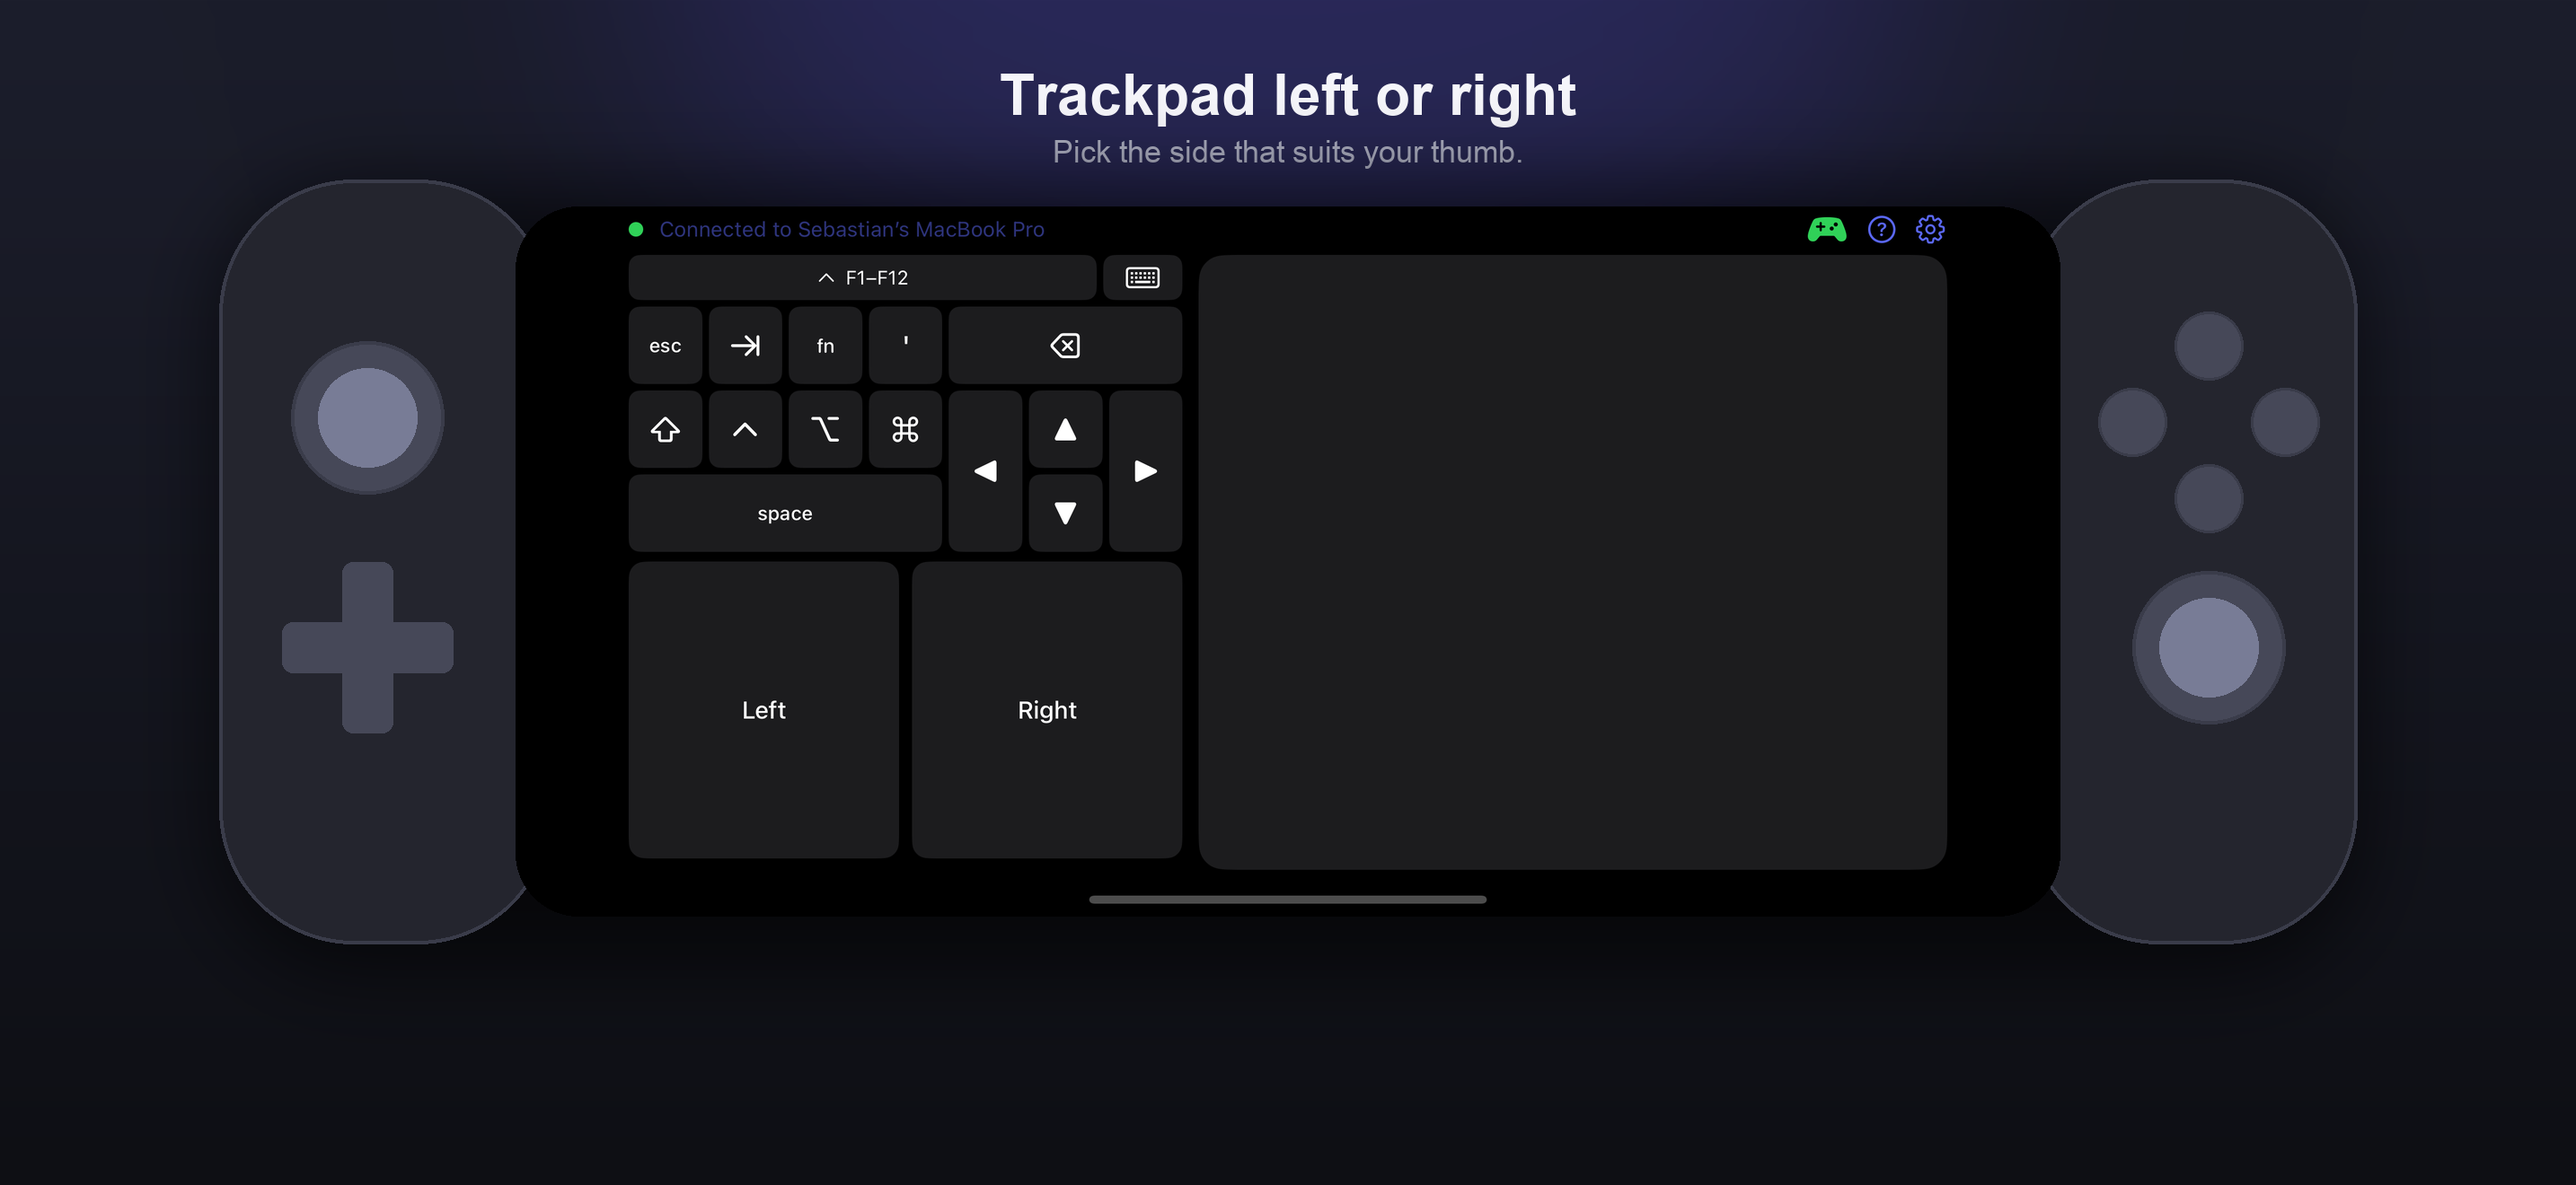
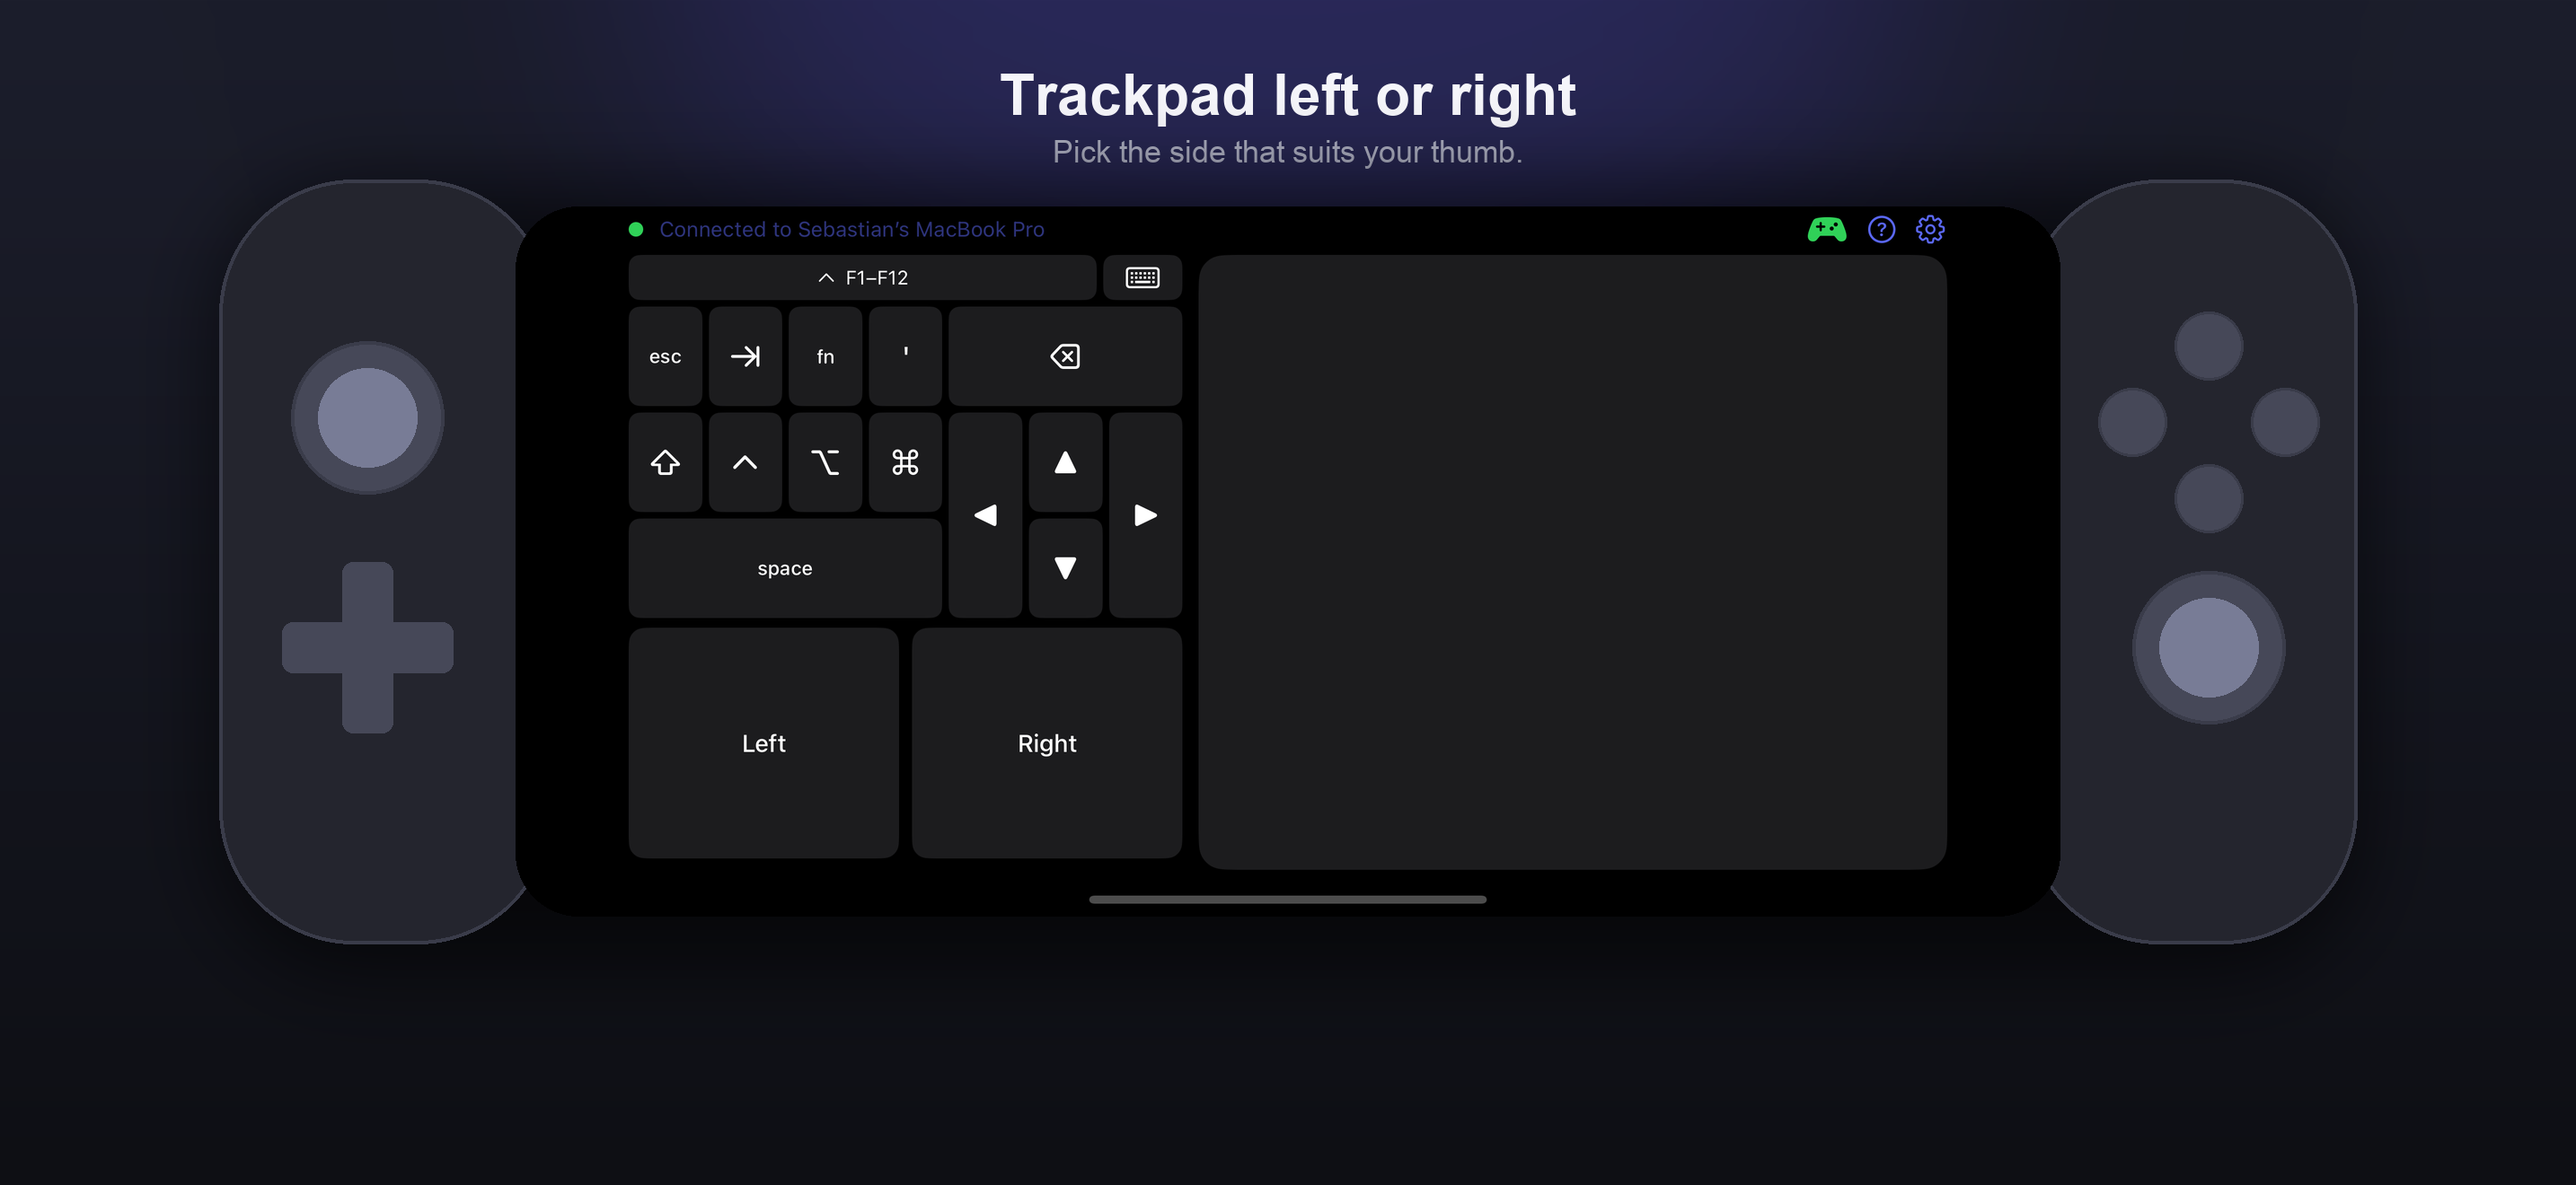
Landscape: key block, trackpad and keyboard meet on one line
Keyboard avoidance is switched off at the root for landscape (inner
modifiers could not stop the geometry from shrinking). The keyboard's
top edge is measured from the system notification and remembered; the
trackpad is inset by the distance from the content's own bottom edge to
that line, and the key rows are sized to end there too. So the keys are
the same size whether the keyboard is up or not and nothing moves, and
the gap above the keyboard is gone. Fourth landscape render added.

diff --git a/iOS/Couchpad/ContentView.swift b/iOS/Couchpad/ContentView.swift
@@ -13,6 +13,9 @@ struct ContentView: View {
     private var isLandscape: Bool { verticalSizeClass == .compact }
     @State private var showSetup = false
     @State private var showScanner = false
+    /// Top edge of the iOS keyboard in landscape (screen coordinates), measured the first
+    /// time it appears and remembered, so the key block can end exactly where it begins.
+    @AppStorage("landscapeKeyboardTop") private var landscapeKeyboardTop: Double = 0
 
     var body: some View {
         Group {
@@ -24,6 +27,9 @@ struct ContentView: View {
         }
         .padding(.horizontal, 8)
         .padding(.bottom, 8)
+        // Keyboard avoidance is applied at the root, so it has to be switched off here:
+        // sideways, nothing moves for the keyboard (the trackpad is inset by hand instead).
+        .ignoresSafeArea(isLandscape ? .keyboard : [])
         .background(Color(.systemBackground))
         .onAppear {
             controller.client = client
@@ -48,6 +54,12 @@ struct ContentView: View {
         .onChange(of: showSetup) { _, _ in syncKeyboardSuspension() }
         .onChange(of: showSettings) { _, _ in syncKeyboardSuspension() }
         .onChange(of: showScanner) { _, _ in syncKeyboardSuspension() }
+        .onReceive(NotificationCenter.default.publisher(for: UIResponder.keyboardWillShowNotification)) { note in
+            guard let frame = (note.userInfo?[UIResponder.keyboardFrameEndUserInfoKey] as? NSValue)?.cgRectValue else { return }
+            let screen = UIScreen.main.bounds
+            guard isLandscape, frame.minY > screen.height * 0.3, frame.minY < screen.height else { return }
+            landscapeKeyboardTop = frame.minY
+        }
         .onChange(of: isLandscape, initial: true) { _, landscape in
             // Sideways (a Backbone, say) the iOS keyboard would cover half the screen: start hidden.
             // `initial: true` covers launching already sideways, when onAppear sees no size class yet.
@@ -77,17 +89,24 @@ struct ContentView: View {
     /// Trackpad on one side (your choice), everything else in a column on the other. The key
     /// rows stretch to use the column's full height, so with the iOS keyboard hidden the keys
     /// are large.
+    /// Nothing here moves for the keyboard: the whole body ignores it, and instead the
+    /// trackpad is inset by the keyboard's height while it is up. The key block is sized to
+    /// end on that same line, so block bottom, trackpad bottom and keyboard top coincide.
     private var landscapeBody: some View {
         VStack(spacing: 6) {
             topBar
             GeometryReader { geo in
+                // Distance from our bottom edge up to the keyboard's top edge, in the same coordinates.
+                let bottom = geo.frame(in: .global).maxY
+                let keyboardTop = landscapeKeyboardTop > 0 ? landscapeKeyboardTop : bottom - geo.size.height * 0.40
+                let inset = max(0, bottom - keyboardTop)
                 HStack(spacing: 10) {
                     if settings.trackpadOnRight {
-                        landscapeControls(width: max(300, geo.size.width * 0.42))
-                        trackpad
+                        landscapeControls(width: max(300, geo.size.width * 0.42), above: geo.size.height - inset)
+                        trackpad.padding(.bottom, inputState.keyboardShown ? inset : 0)
                     } else {
-                        trackpad
-                        landscapeControls(width: max(300, geo.size.width * 0.42))
+                        trackpad.padding(.bottom, inputState.keyboardShown ? inset : 0)
+                        landscapeControls(width: max(300, geo.size.width * 0.42), above: geo.size.height - inset)
                     }
                 }
             }
@@ -97,9 +116,11 @@ struct ContentView: View {
     /// The key block is anchored at the top with fixed row heights and the column ignores the
     /// keyboard, so the keys never move: the iOS keyboard simply covers the space below them.
     /// That space holds the mouse buttons while the keyboard is hidden.
-    private func landscapeControls(width: CGFloat) -> some View {
-        VStack(spacing: 6) {
-            KeyStripView(client: client, state: inputState, rowHeight: 48)
+    private func landscapeControls(width: CGFloat, above: CGFloat) -> some View {
+        // Rows fill the space above the keyboard line exactly: bar + 3 rows + gaps = `above`.
+        let rowHeight = min(80, max(36, (above - 28 - 4 * 4) / 3))
+        return VStack(spacing: 6) {
+            KeyStripView(client: client, state: inputState, rowHeight: rowHeight)
             if !inputState.keyboardShown {
                 mouseButtons.frame(maxHeight: .infinity)
             } else {
@@ -108,7 +129,6 @@ struct ContentView: View {
             keyInput
         }
         .frame(width: width)
-        .ignoresSafeArea(.keyboard)
     }
 
     private var keyInput: some View {

diff --git a/Tools/compose-landscape.py b/Tools/compose-landscape.py
@@ -13,6 +13,7 @@ captions = [
     ("a-main.png",  "01-landscape.png",       "Sideways, with a controller",    "Trackpad on one side, keys and mouse buttons on the other."),
     ("b-fkeys.png", "02-landscape-fkeys.png", "F1–F12 one tap away",             "The key block never moves when the keyboard comes up."),
     ("c-right.png", "03-landscape-right.png", "Trackpad left or right",          "Pick the side that suits your thumb."),
+    ("d-keyboard.png", "04-landscape-keyboard.png", "Type when you need to",     "The keys stay where they are; the keyboard slides in underneath."),
 ]
 
 def font(size, bold=False):
